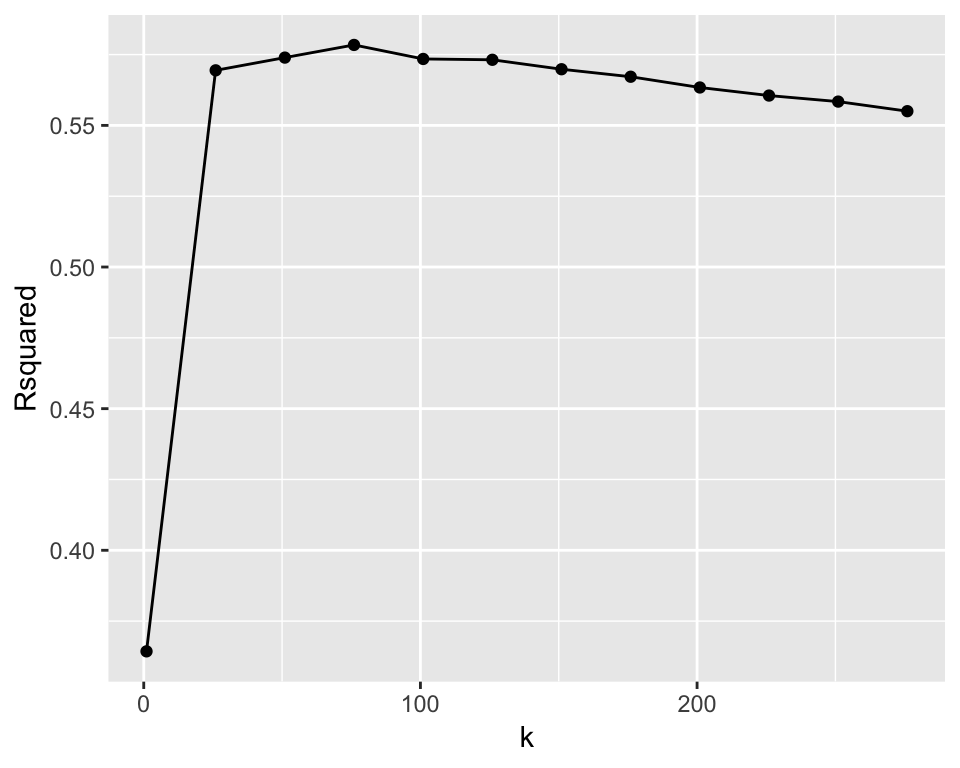
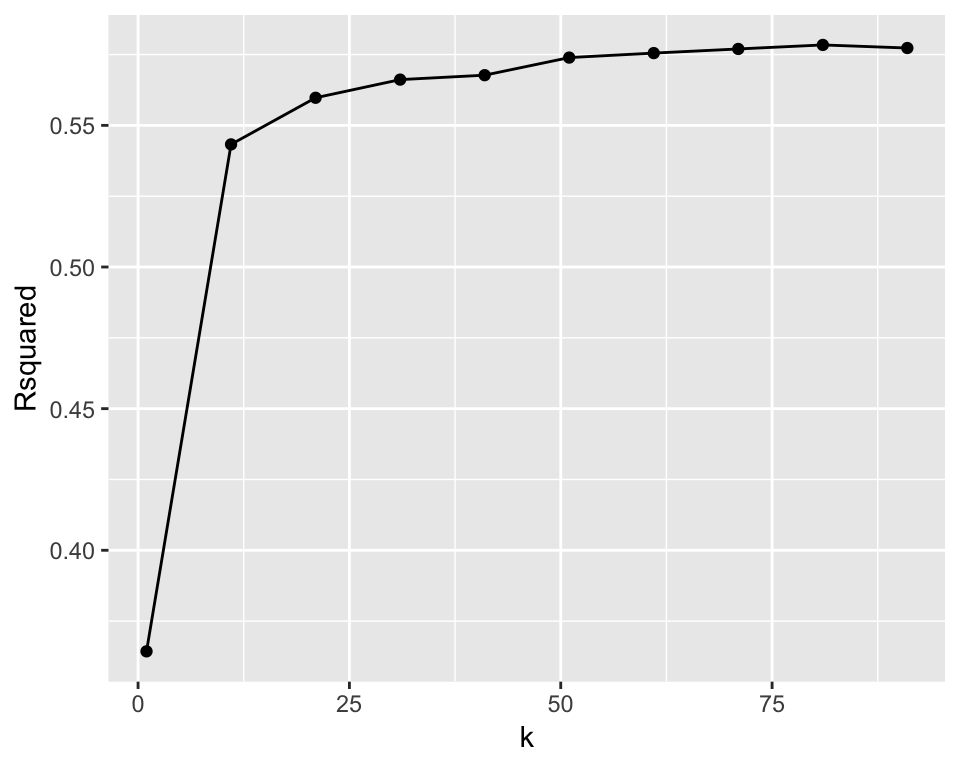
updated prediction error

diff --git a/docs/regression1.html b/docs/regression1.html
@@ -27,7 +27,7 @@
 <meta name="author" content="Samuel Hinshaw">
 
 
-<meta name="date" content="2019-02-15">
+<meta name="date" content="2019-02-16">
 
   <meta name="viewport" content="width=device-width, initial-scale=1">
   <meta name="apple-mobile-web-app-capable" content="yes">
@@ -218,7 +218,8 @@ code > span.in { color: #60a0b0; font-weight: bold; font-style: italic; } /* Inf
 <li class="chapter" data-level="7.6" data-path="classification-continued.html"><a href="classification-continued.html#other-ways-to-increase-accuracy"><i class="fa fa-check"></i><b>7.6</b> Other ways to increase accuracy</a></li>
 <li class="chapter" data-level="7.7" data-path="classification-continued.html"><a href="classification-continued.html#test-data-set"><i class="fa fa-check"></i><b>7.7</b> Test data set</a></li>
 <li class="chapter" data-level="7.8" data-path="classification-continued.html"><a href="classification-continued.html#scaling-your-data"><i class="fa fa-check"></i><b>7.8</b> Scaling your data</a></li>
-<li class="chapter" data-level="7.9" data-path="classification-continued.html"><a href="classification-continued.html#additional-readingsresources-3"><i class="fa fa-check"></i><b>7.9</b> Additional readings/resources</a></li>
+<li class="chapter" data-level="7.9" data-path="classification-continued.html"><a href="classification-continued.html#strengths-and-limitations-of-k-nn-classification"><i class="fa fa-check"></i><b>7.9</b> Strengths and limitations of k-nn classification</a></li>
+<li class="chapter" data-level="7.10" data-path="classification-continued.html"><a href="classification-continued.html#additional-readingsresources-3"><i class="fa fa-check"></i><b>7.10</b> Additional readings/resources</a></li>
 </ul></li>
 <li class="chapter" data-level="8" data-path="regression1.html"><a href="regression1.html"><i class="fa fa-check"></i><b>8</b> Introduction to regression through K-nearest neighbours</a><ul>
 <li class="chapter" data-level="8.1" data-path="regression1.html"><a href="regression1.html#overview-6"><i class="fa fa-check"></i><b>8.1</b> Overview</a></li>
@@ -270,7 +271,7 @@ code > span.in { color: #60a0b0; font-weight: bold; font-style: italic; } /* Inf
 </div>
 <div id="regression" class="section level2">
 <h2><span class="header-section-number">8.3</span> Regression</h2>
-<p>We can use regression as a method to answer a very similar question to classification (e.g., use past information to predict future values) but in the case of regression the what we want to predict are not class labels, but instead numerical values. An example regression prediction question would be can we use hours spent on exercise each week to predict marathon race time? Another example regression prediction question, that we’ll explore in the text book, is can we use house square footage to predict house sale price? For this question we will use a data set from Sacremento that is part of the <code>caret</code> package.</p>
+<p>We can use regression as a method to answer a very similar question to classification (can we use past information to predict future observations?), but in the case of regression the goal is to predict numerical values instead of class labels. An example regression prediction question would be: can we use hours spent on exercise each week to predict marathon race time? And another example regression prediction question is: can we use house size (livable square feet) to predict house sale price? We will use this question to explore regression in this text book. For this we will use a real estate data set from Sacremento, California that is part of the <code>caret</code> package.</p>
 </div>
 <div id="sacremento-real-estate-example" class="section level2">
 <h2><span class="header-section-number">8.4</span> Sacremento real estate example</h2>
@@ -289,7 +290,7 @@ code > span.in { color: #60a0b0; font-weight: bold; font-style: italic; } /* Inf
 ## 4 SACRAMENTO z95815    2     1  852 Residential 69307 38.61684 -121.4391
 ## 5 SACRAMENTO z95824    2     1  797 Residential 81900 38.51947 -121.4358
 ## 6 SACRAMENTO z95841    3     1 1122       Condo 89921 38.66260 -121.3278</code></pre>
-<p>Next look at the data in a plot where we place the predictor/explanatory variable on the x-axis and the target/response variable on the y-axis (this is what we would like to predict):</p>
+<p>We are interested in the columns <code>sqft</code> (which is the house size in livable square feet) and <code>price</code>, which is the house size in US dollars (USD). Let’s now visaulize the data as a scatter plot where we place the predictor/explanatory variable, house size, on the x-axis and the target/response variable, price, on the y-axis (this is what we would like to predict):</p>
 <div class="sourceCode"><pre class="sourceCode r"><code class="sourceCode r">eda &lt;-<span class="st"> </span><span class="kw">ggplot</span>(Sacramento, <span class="kw">aes</span>(<span class="dt">x =</span> sqft, <span class="dt">y =</span> price)) <span class="op">+</span>
 <span class="st">  </span><span class="kw">geom_point</span>(<span class="dt">alpha =</span> <span class="fl">0.5</span>) <span class="op">+</span>
 <span class="st">  </span><span class="kw">xlab</span>(<span class="st">&quot;House size (square footage)&quot;</span>) <span class="op">+</span>
@@ -297,14 +298,18 @@ code > span.in { color: #60a0b0; font-weight: bold; font-style: italic; } /* Inf
 <span class="st">  </span><span class="kw">scale_y_continuous</span>(<span class="dt">labels=</span><span class="kw">dollar_format</span>()) 
 eda</code></pre></div>
 <p><img src="bookdown-demo_files/figure-html/eda-1.png" width="480" /></p>
-<p>From looking at the visualization above, we see that as house size (square footage) increases, so does house price. Thus, we can reason that house size might be a useful predictor of house price and we can use the size of the house to predict a house price for a home that has not yet sold (and consequently we do not know the house price).</p>
+<p>From looking at the visualization above, we see that as house size (square footage) increases, so does house price. Thus, we can reason that house size might be a useful predictor of house price and perhaps we can use the size of the house to predict the price a house will be sold at (for a home that has not yet sold and thus consequently we do not know the house price).</p>
 </div>
 <div id="k-nearest-neighbours-regression" class="section level2">
 <h2><span class="header-section-number">8.5</span> K-nearest neighbours regression</h2>
-<p>Let’s take a small sample of the data above and walk through how K-nearest neighbours (knn) regression works before we dive in to creating our model. To take a small sample, we’ll use the function <code>sample_n</code>.</p>
+<p>Let’s take a small sample of the data above and walk through how K-nearest neighbours (knn) regression works before we dive in to creating our model and assessing how well it predicts house price. To take a small random sample of size 30 , we’ll use the function <code>sample_n</code>. This function takes two arguments:</p>
+<ol style="list-style-type: decimal">
+<li><code>tbl</code> (a data frame-like object to sample from)</li>
+<li><code>size</code> (the number of observations/rows to be randomly selected/sampled)</li>
+</ol>
 <div class="sourceCode"><pre class="sourceCode r"><code class="sourceCode r"><span class="kw">set.seed</span>(<span class="dv">2019</span>)
 small_sacramento &lt;-<span class="st"> </span><span class="kw">sample_n</span>(Sacramento, <span class="dt">size =</span> <span class="dv">30</span>)</code></pre></div>
-<p>Next let’s say we come across a new house we are interested in purchasing, and its 2000 square feet! Its advertised list price is $350,000 should we give them what they are asking? Or is that overpriced and we should offer less? Perhaps we cannot directly answer that, but we can get close by using the data we have to predict the sale price given the sale prices we have already observed.</p>
+<p>Next let’s say we come across a new house we are interested in purchasing, and it is 2000 square feet! Its advertised list price is $350,000 should we give them what they are asking? Or is that overpriced and we should offer less? Perhaps we cannot directly answer that, but we can get close by using the data we have to predict the sale price given the sale prices we have already observed.</p>
 <p>Given the data in the plot below, we have no observations of a house that has sold that is 2000 square feet, so how can we predict the price?</p>
 <div class="sourceCode"><pre class="sourceCode r"><code class="sourceCode r">small_plot &lt;-<span class="st"> </span><span class="kw">ggplot</span>(small_sacramento, <span class="kw">aes</span>(<span class="dt">x =</span> sqft, <span class="dt">y =</span> price)) <span class="op">+</span>
 <span class="st">  </span><span class="kw">geom_point</span>() <span class="op">+</span>
@@ -376,12 +381,27 @@ Y_test &lt;-<span class="st"> </span>Sacramento <span class="op">%&gt;%</span><s
 <span class="st">  </span><span class="kw">select</span>(price) <span class="op">%&gt;%</span><span class="st"> </span>
 <span class="st">  </span><span class="kw">slice</span>(<span class="op">-</span>training_rows) <span class="op">%&gt;%</span><span class="st"> </span>
 <span class="st">  </span><span class="kw">unlist</span>()</code></pre></div>
-<p>Next, we’ll use cross-validation to choose <span class="math inline">\(k\)</span>. Instead of accuracy, we will use <span class="math inline">\(R^2\)</span> as our cross-validation score for how good of a model we have for prediction.</p>
+<p>Next, we’ll use cross-validation to choose <span class="math inline">\(k\)</span>. In k-nn classification, we used accuracy to see how well our predictions matched the true labels. Here in the context of k-nn regression we will use root mean square error (<span class="math inline">\(RMSE\)</span>) instead. If the predictions are very close to the true values, then <span class="math inline">\(RMSE\)</span> will be small. If, on the other-hand, the predictions are very different to the true values, then <span class="math inline">\(RMSE\)</span> will be quite large. Thus, when we are doing cross validation to choose <span class="math inline">\(k\)</span>, we want to choose the <span class="math inline">\(k\)</span> that gives us the smallest <span class="math inline">\(RMSE\)</span>.</p>
+<p>The mathematical formula for calculation <span class="math inline">\(RMSE\)</span> is shown below:</p>
+<p><span class="math display">\[RMSE = \sqrt{\frac{1}{n}\sum\limits_{i=1}^{\infty}(y_i - \hat{y_i})^2}\]</span></p>
+<p>Where:</p>
+<ul>
+<li><span class="math inline">\(n\)</span> is the number of observations</li>
+<li><span class="math inline">\(y_i\)</span> is the observed value for the <span class="math inline">\(ith\)</span> observation</li>
+<li><span class="math inline">\(\hat{y_i}\)</span> is the forcasted/predicted value for the <span class="math inline">\(ith\)</span> observation</li>
+</ul>
+<p>A key feature the formula for RMSE is the distance between the observed target/response variable value, <span class="math inline">\(y\)</span>, and the prediction target/response variable value, <span class="math inline">\(\hat{y_i}\)</span>, for each observation (from 1 to <span class="math inline">\(i\)</span>).</p>
+<p>Now that we know how we can assess how well our model predicts a numerical value, let’s use R to perform cross-validation and to choose the optimal <span class="math inline">\(k\)</span>.</p>
 <div class="sourceCode"><pre class="sourceCode r"><code class="sourceCode r">train_control &lt;-<span class="st"> </span><span class="kw">trainControl</span>(<span class="dt">method =</span> <span class="st">&quot;cv&quot;</span>, <span class="dt">number =</span> <span class="dv">10</span>)
-k_lots =<span class="st"> </span><span class="kw">data.frame</span>(<span class="dt">k =</span> <span class="kw">seq</span>(<span class="dt">from =</span> <span class="dv">1</span>, <span class="dt">to =</span> <span class="dv">300</span>, <span class="dt">by =</span> <span class="dv">25</span>)) <span class="co"># makes a column of k&#39;s, from 1 to 25</span>
+<span class="co"># makes a column of k&#39;s, from 1 to 100 in increments of 10</span>
+k_lots =<span class="st"> </span><span class="kw">data.frame</span>(<span class="dt">k =</span> <span class="kw">seq</span>(<span class="dt">from =</span> <span class="dv">1</span>, <span class="dt">to =</span> <span class="dv">100</span>, <span class="dt">by =</span> <span class="dv">10</span>)) 
 
 <span class="kw">set.seed</span>(<span class="dv">1234</span>)
-knn_reg_cv_<span class="dv">10</span> &lt;-<span class="st"> </span><span class="kw">train</span>(<span class="dt">x =</span> X_train, <span class="dt">y =</span> Y_train, <span class="dt">method =</span> <span class="st">&quot;knn&quot;</span>, <span class="dt">tuneGrid =</span> k_lots, <span class="dt">trControl =</span> train_control, <span class="dt">metric =</span> <span class="st">&quot;Rsquared&quot;</span>)
+knn_reg_cv_<span class="dv">10</span> &lt;-<span class="st"> </span><span class="kw">train</span>(<span class="dt">x =</span> X_train, 
+                       <span class="dt">y =</span> Y_train, 
+                       <span class="dt">method =</span> <span class="st">&quot;knn&quot;</span>, 
+                       <span class="dt">tuneGrid =</span> k_lots, 
+                       <span class="dt">trControl =</span> train_control) 
 knn_reg_cv_<span class="dv">10</span></code></pre></div>
 <pre><code>## k-Nearest Neighbors 
 ## 
@@ -393,33 +413,31 @@ knn_reg_cv_<span class="dv">10</span></code></pre></div>
 ## Summary of sample sizes: 505, 505, 505, 505, 505, 505, ... 
 ## Resampling results across tuning parameters:
 ## 
-##   k    RMSE       Rsquared   MAE     
-##     1  110214.34  0.3643214  82765.68
-##    26   83428.65  0.5694362  62301.06
-##    51   83129.92  0.5739339  61646.80
-##    76   83448.83  0.5784049  61761.68
-##   101   84664.94  0.5734551  62281.74
-##   126   85947.91  0.5731613  62876.29
-##   151   87508.41  0.5698278  63683.03
-##   176   89254.37  0.5671782  64669.90
-##   201   91386.34  0.5633833  65983.60
-##   226   93298.46  0.5605334  67186.52
-##   251   95280.62  0.5584013  68468.53
-##   276   97592.76  0.5550169  70065.03
+##   k   RMSE       Rsquared   MAE     
+##    1  110214.34  0.3643214  82765.68
+##   11   85909.14  0.5432898  64417.87
+##   21   84446.88  0.5597473  63221.52
+##   31   83781.76  0.5661561  62191.50
+##   41   83649.72  0.5677168  62191.46
+##   51   83129.92  0.5739339  61646.80
+##   61   83280.96  0.5755190  61578.59
+##   71   83438.69  0.5769822  61763.68
+##   81   83535.20  0.5783986  61765.92
+##   91   83890.01  0.5773097  61848.97
 ## 
-## Rsquared was used to select the optimal model using the largest value.
-## The final value used for the model was k = 76.</code></pre>
+## RMSE was used to select the optimal model using the smallest value.
+## The final value used for the model was k = 51.</code></pre>
 <div class="sourceCode"><pre class="sourceCode r"><code class="sourceCode r"><span class="kw">ggplot</span>(knn_reg_cv_<span class="dv">10</span><span class="op">$</span>results, <span class="kw">aes</span>(<span class="dt">x =</span> k, <span class="dt">y =</span> Rsquared)) <span class="op">+</span>
 <span class="st">  </span><span class="kw">geom_point</span>() <span class="op">+</span>
 <span class="st">  </span><span class="kw">geom_line</span>()</code></pre></div>
 <p><img src="bookdown-demo_files/figure-html/choose_k-1.png" width="480" /></p>
-<p>Here we see that the best <span class="math inline">\(k\)</span> for this model is 76.</p>
+<p>Here we see that the smallest <span class="math inline">\(RMSE\)</span> is from the model where <span class="math inline">\(k\)</span> = 51. Thus the best <span class="math inline">\(k\)</span> for this model is 51.</p>
 </div>
 <div id="assessing-model-goodness-with-the-test-set" class="section level2">
 <h2><span class="header-section-number">8.7</span> Assessing model goodness with the test set</h2>
 <p>Next we re-train our k-nn model on the entire training data set (do not perform cross validation) and then predict on the test data set to assess how well our model does.</p>
 <p>In the case of k-nn regression we use the function <code>defaultSummary</code> instead of <code>confusionMatrix</code> (which we used with knn classification). This is because our predictions are not class labels, but values, and as such the type of model goodness score is calculated differently. <code>defaultSummary</code> expects a data frame where one column is the observed target/response variable values from the test data, and a second column of the predicted values for the test data.</p>
-<div class="sourceCode"><pre class="sourceCode r"><code class="sourceCode r">k =<span class="st"> </span><span class="kw">data.frame</span>(<span class="dt">k =</span> <span class="dv">76</span>)
+<div class="sourceCode"><pre class="sourceCode r"><code class="sourceCode r">k =<span class="st"> </span><span class="kw">data.frame</span>(<span class="dt">k =</span> <span class="dv">51</span>)
 
 <span class="kw">set.seed</span>(<span class="dv">1234</span>)
 knn_reg_final &lt;-<span class="st"> </span><span class="kw">train</span>(<span class="dt">x =</span> X_train, <span class="dt">y =</span> Y_train, <span class="dt">method =</span> <span class="st">&quot;knn&quot;</span>, <span class="dt">tuneGrid =</span> k)
@@ -428,8 +446,9 @@ test_pred &lt;-<span class="st"> </span><span class="kw">predict</span>(knn_reg_
 modelvalues &lt;-<span class="st"> </span><span class="kw">data.frame</span>(<span class="dt">obs =</span> Y_test, <span class="dt">pred =</span> test_pred)
 test_results &lt;-<span class="st"> </span><span class="kw">defaultSummary</span>(modelvalues)
 test_results</code></pre></div>
-<pre><code>##       RMSE   Rsquared        MAE 
-## 93323.9016     0.5705 63954.8969</code></pre>
+<pre><code>##         RMSE     Rsquared          MAE 
+## 9.162040e+04 5.785061e-01 6.370486e+04</code></pre>
+<p>Our test error as assessed by <span class="math inline">\(RMSE\)</span> is 91620.4.</p>
 
 </div>
 </div>
